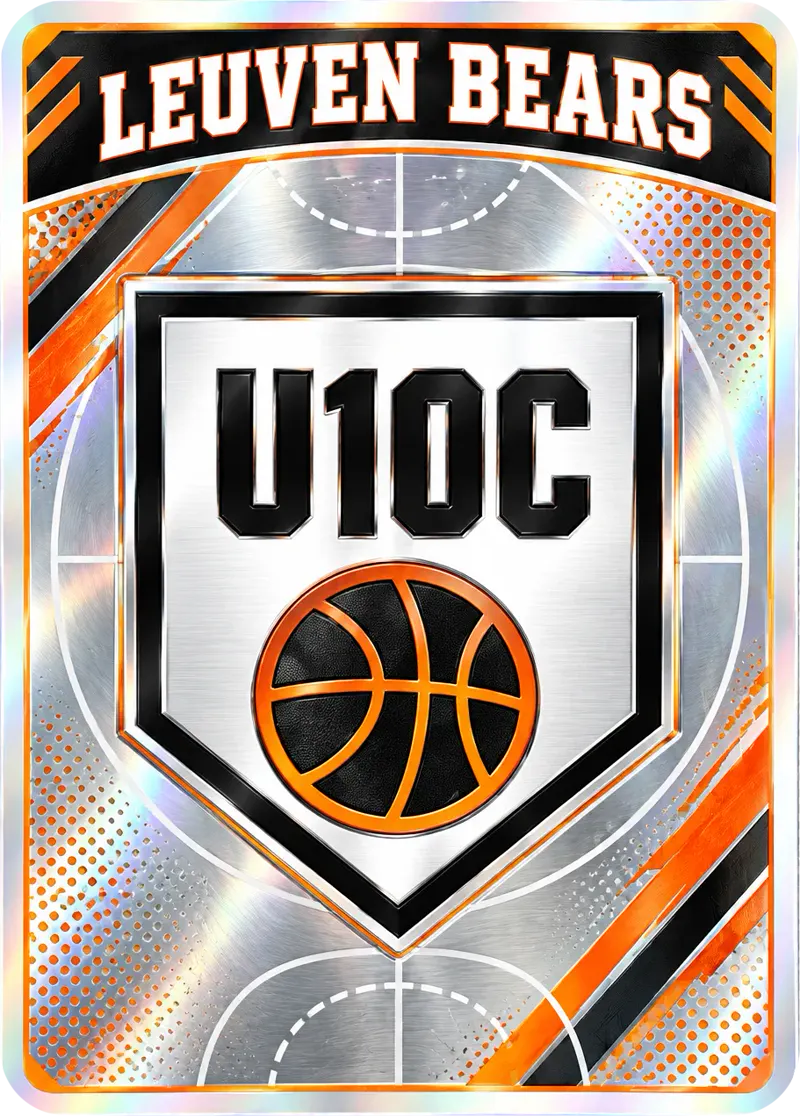
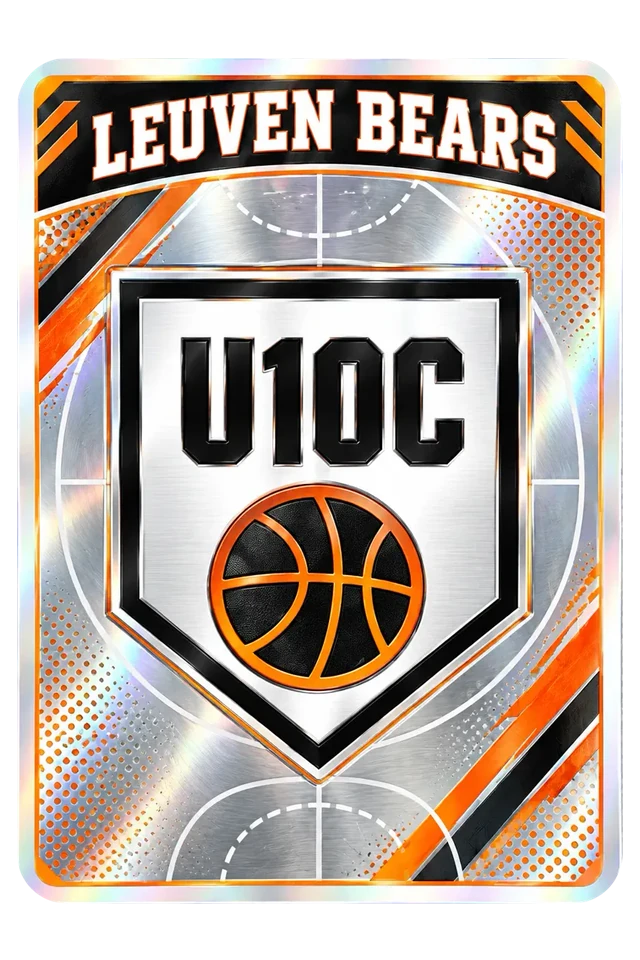
Match the Spelers emblem to the player 2:3 sticker slot.
The U10C academy card filled its file edge-to-edge, so it read larger than the padded player stickers. It now uses the same 640×960 frame and the same grid-column slot; the wide group photo is unchanged.

diff --git a/src/index.css b/src/index.css
@@ -2601,13 +2601,17 @@ body {
 
 .sticker-album__emblem {
   min-width: 0;
-  max-width: min(50%, 14rem);
+  /* One player-card column of the 2-col grid (gap 0.75rem). */
+  width: calc((100% - 0.75rem) / 2);
+  max-width: none;
   align-self: start;
 }
 
 @media (min-width: 640px) {
   .sticker-album__emblem {
-    max-width: 100%;
+    /* Hero shares the player grid columns — fill that cell. */
+    width: auto;
+    max-width: none;
   }
 }
 
@@ -2617,9 +2621,20 @@ body {
   filter: drop-shadow(0 10px 18px rgba(0, 0, 0, 0.45));
 }
 
-.sticker-album__emblem-img {
-  width: 100%;
+.sticker-album__hero .sticker-album__emblem.sticker-slot--player {
+  aspect-ratio: 2 / 3;
   height: auto;
+  min-height: 0;
+}
+
+.sticker-album__hero .sticker-slot--filled .sticker-slot__art {
+  position: absolute;
+  inset: 0;
+  width: 100%;
+  height: 100%;
+  object-fit: contain;
+  min-width: 0;
+  min-height: 0;
 }
 
 .sticker-album__hero .sticker-slot--group {

diff --git a/src/components/StickerAlbum.tsx b/src/components/StickerAlbum.tsx
@@ -16,13 +16,13 @@ export function StickerAlbum({ players, staff }: StickerAlbumProps) {
         className="sticker-album__hero"
         aria-label="Teamstickers bovenaan"
       >
-        <article className="sticker-album__emblem">
+        <article className="sticker-slot sticker-slot--filled sticker-slot--player sticker-album__emblem animate-in">
           <img
-            src="/stickers/embleem-u10c.webp"
+            src="/stickers/embleem-u10c.webp?v=20260918i"
             alt="Embleemsticker van Leuven Bears U10 C"
-            width={800}
-            height={1116}
-            className="sticker-album__emblem-img"
+            width={640}
+            height={960}
+            className="sticker-slot__art sticker-album__emblem-img"
           />
         </article>
 
